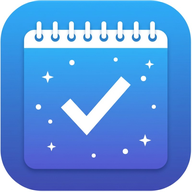
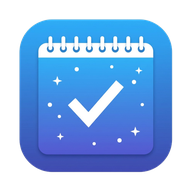
アイコン修正 - 外側背景くり抜き透明化・ロゴ内の白は保持

diff --git a/flutter_service_worker.js b/flutter_service_worker.js
@@ -16,7 +16,7 @@ const RESOURCES = {"canvaskit/chromium/canvaskit.js": "5e27aae346eee469027c80af0
 "canvaskit/skwasm_heavy.js.symbols": "3c01ec03b5de6d62c34e17014d1decd3",
 "canvaskit/skwasm_heavy.wasm": "8034ad26ba2485dab2fd49bdd786837b",
 "flutter.js": "888483df48293866f9f41d3d9274a779",
-"flutter_bootstrap.js": "c83ee8b2b6faf787376eb30128af7a4c",
+"flutter_bootstrap.js": "47ffa49f4e895836bbb8a891e885ba9e",
 "index.html": "fd0bc531b15bc6d1883d7b99daaf32ad",
 "/": "fd0bc531b15bc6d1883d7b99daaf32ad",
 "main.dart.js": "5dfd8d1b2a77eca7713b3f7a2b49fb4e",
@@ -29,14 +29,14 @@ const RESOURCES = {"canvaskit/chromium/canvaskit.js": "5e27aae346eee469027c80af0
 "assets/AssetManifest.bin.json": "4b4c8d76be01ca837f2e1155fac05991",
 "assets/FontManifest.json": "83c26482172a9a624a3037beea1d6c67",
 "assets/NOTICES": "84e13364e800c9f3b8f57d97d76d2200",
-"assets/assets/logo.png": "1b7aba560c08432a1ec5a30d6cf4df60",
+"assets/assets/logo.png": "36cf4e2cf8d3056a3b5a08681d3305ca",
 "assets/assets/fonts/NotoSansJP-Medium.ttf": "5aa76b39b31ea244ec0769d55097f462",
 "assets/assets/fonts/NotoSansJP-Bold.ttf": "066979ccaaded28d871ec5c4269f567c",
-"icons/Icon-192.png": "459483363299eee08d400388f5772725",
-"icons/Icon-512.png": "32360f8c9ec9b01f3431dce2dcb12763",
-"icons/Icon-maskable-192.png": "459483363299eee08d400388f5772725",
-"icons/Icon-maskable-512.png": "32360f8c9ec9b01f3431dce2dcb12763",
-"favicon.png": "90f5c80d898f829c6db5bd98fd455565",
+"icons/Icon-192.png": "f27a7aa73731346a223bf44aae5f7019",
+"icons/Icon-512.png": "a56f03a082bb742547e15a3f2f1777a2",
+"icons/Icon-maskable-192.png": "ba37c4a87868a1fef1dd79b77aa70a1a",
+"icons/Icon-maskable-512.png": "a7c6ec4e138e4ce872a1185fc0234eff",
+"favicon.png": "c15e574d758c192dc169abee8f5b4835",
 "manifest.json": "5294f02e35c5563f52df8166beedb315"};
 // The application shell files that are downloaded before a service worker can
 // start.

diff --git a/flutter_bootstrap.js b/flutter_bootstrap.js
@@ -38,6 +38,6 @@ _flutter.buildConfig = {"engineRevision":"c29809135135e262a912cf583b2c90deb9ded6
 
 _flutter.loader.load({
   serviceWorkerSettings: {
-    serviceWorkerVersion: "911300265"
+    serviceWorkerVersion: "1196836937"
   }
 });
